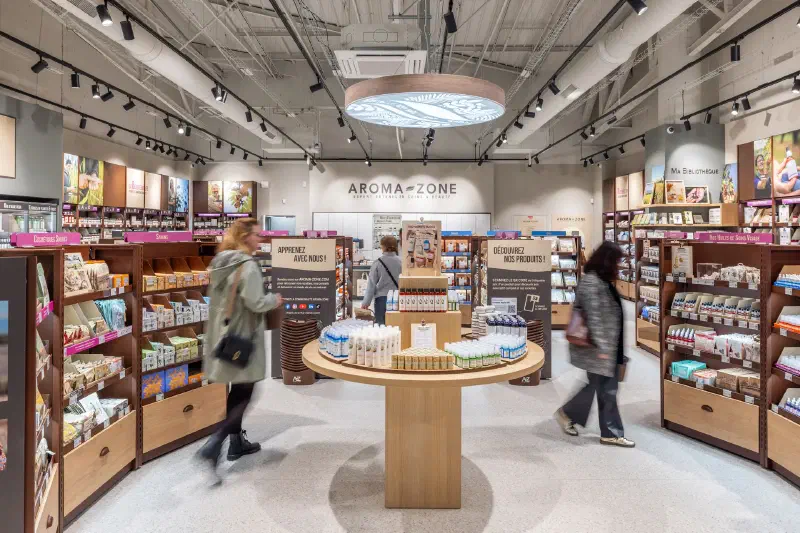
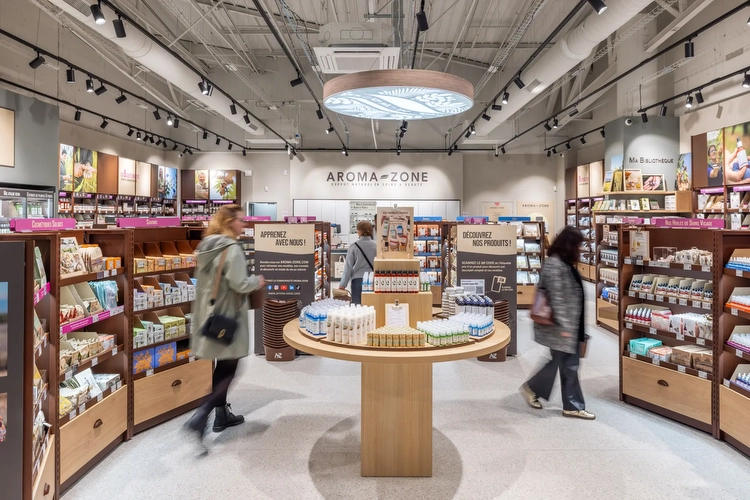
mobile

diff --git a/layouts/_default/home.html b/layouts/_default/home.html
@@ -4,17 +4,35 @@
 <section class="hero">
 
   <div class="hero-slide">
-    <img src="/images/hero-1.WEBP" alt="{{ .Params.hero_image_1_alt }}" fetchpriority="high" width="800" height="533">
-    <div class="hero-overlay"></div>
-  </div>
-  <div class="hero-slide">
-    <img src="/images/hero-2.WEBP" alt="{{ .Params.hero_image_2_alt }}" loading="lazy" width="800" height="533">
-    <div class="hero-overlay"></div>
-  </div>
-  <div class="hero-slide">
-    <img src="/images/hero-3.WEBP" alt="{{ .Params.hero_image_3_alt }}" loading="lazy" width="800" height="533">
-    <div class="hero-overlay"></div>
-  </div>
+  <img src="/images/hero-1.WEBP" 
+       alt="{{ .Params.hero_image_1_alt }}" 
+       fetchpriority="high"
+       srcset="/images/hero-1-mobile.WEBP 768w,
+               /images/hero-1.WEBP 1400w"
+       sizes="100vw"
+       width="1400" height="933">
+  <div class="hero-overlay"></div>
+</div>
+<div class="hero-slide">
+  <img src="/images/hero-2.WEBP" 
+       alt="{{ .Params.hero_image_2_alt }}" 
+       loading="lazy"
+       srcset="/images/hero-2-mobile.WEBP 768w,
+               /images/hero-2.WEBP 1400w"
+       sizes="100vw"
+       width="1400" height="933">
+  <div class="hero-overlay"></div>
+</div>
+<div class="hero-slide">
+  <img src="/images/hero-3.WEBP" 
+       alt="{{ .Params.hero_image_3_alt }}" 
+       loading="lazy"
+       srcset="/images/hero-3-mobile.WEBP 768w,
+               /images/hero-3.WEBP 1400w"
+       sizes="100vw"
+       width="1400" height="933">
+  <div class="hero-overlay"></div>
+</div>
 
   <div class="hero-content">
     <h1>{{ .Title }}</h1>
@@ -51,19 +69,19 @@
 <section class="bandeau-section">
   <div class="bandeau-grid">
     <div class="bandeau-item">
-      <img src="/images/service-architecture.WEBP" alt="{{ .Params.service_image_1_alt }}" loading="lazy">
+      <img src="/images/service-architecture.WEBP" alt="{{ .Params.service_image_1_alt }}" loading="lazy" width="400" height="500">
     </div>
     <div class="bandeau-item">
-      <img src="/images/service-immobilier.WEBP" alt="{{ .Params.service_image_2_alt }}" loading="lazy">
+      <img src="/images/service-immobilier.WEBP" alt="{{ .Params.service_image_2_alt }}" loading="lazy" width="400" height="500">
     </div>
     <div class="bandeau-item">
-      <img src="/images/service-retail.WEBP" alt="{{ .Params.service_image_3_alt }}" loading="lazy">
+      <img src="/images/service-retail.WEBP" alt="{{ .Params.service_image_3_alt }}" loading="lazy" width="400" height="500">
     </div>
     <div class="bandeau-item">
-      <img src="/images/service-corporate.WEBP" alt="{{ .Params.service_image_4_alt }}" loading="lazy">
+      <img src="/images/service-corporate.WEBP" alt="{{ .Params.service_image_4_alt }}" loading="lazy" width="400" height="500">
     </div>
     <div class="bandeau-item">
-      <img src="/images/service-paysage.WEBP" alt="{{ .Params.service_image_5_alt }}" loading="lazy">
+      <img src="/images/service-paysage.WEBP" alt="{{ .Params.service_image_5_alt }}" loading="lazy" width="400" height="500">
     </div>
   </div>
 </section>

diff --git a/static/js/main.js b/static/js/main.js
@@ -405,6 +405,6 @@ document.addEventListener('DOMContentLoaded', () => {
   initSlider();
   initBurger();
   initLightbox();
-  initCarousel();
-  initProjetPopup();
+  if (document.querySelector('.carousel-track')) initCarousel();
+  if (document.getElementById('projet-popup')) initProjetPopup();
 });